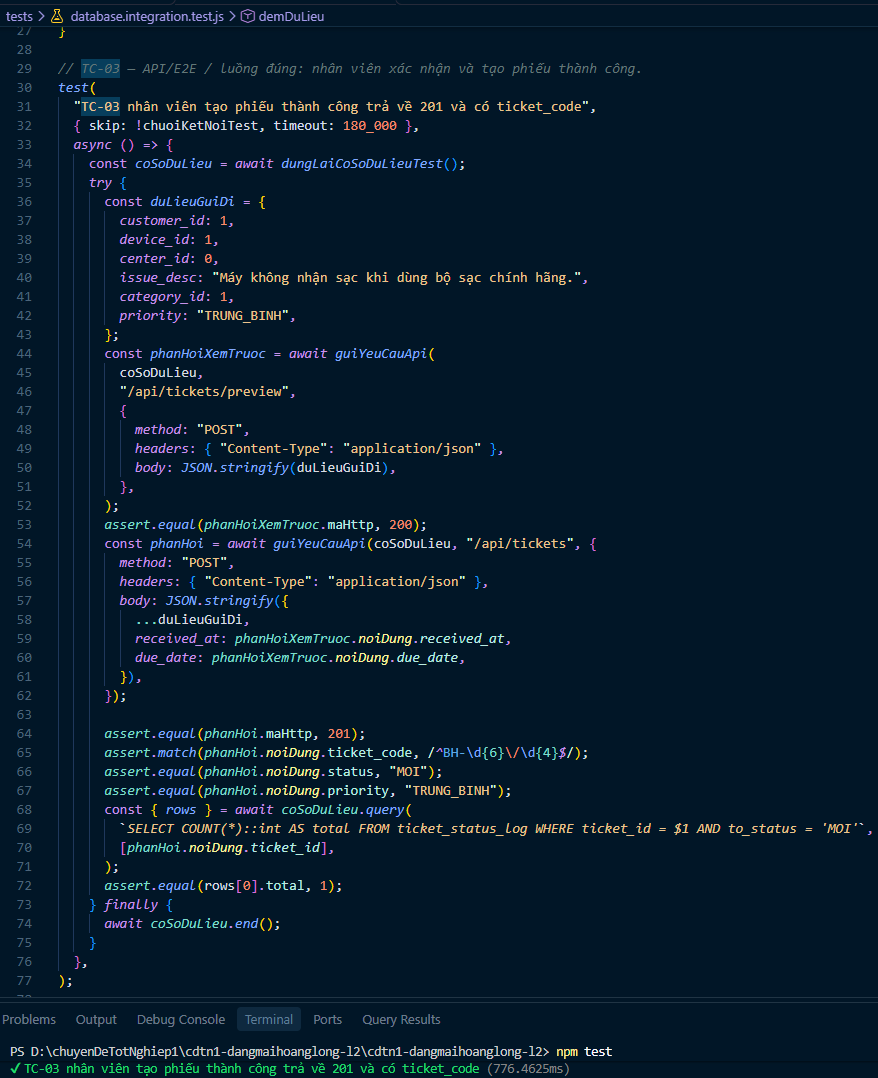
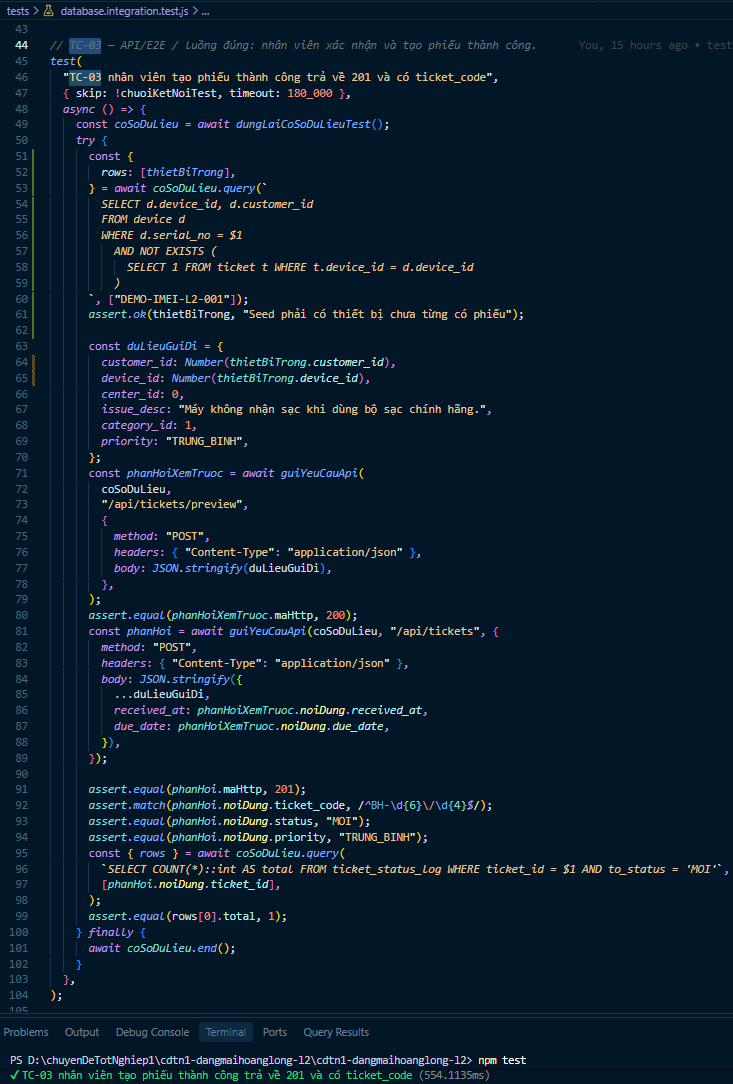
docs(): Cập nhật ảnh minh chứng fix bug test(): Điều chỉnh lại dữ liệu đầu vào TC-03 theo đúng quy tắc nghiệp vụ

Changed region(s): [[0.0, 0.0, 0.9004, 1.0], [0.9304, 0.7653, 0.9604, 0.8265]]

diff --git a/tests/database.integration.test.js b/tests/database.integration.test.js
@@ -48,9 +48,21 @@ test(
   async () => {
     const coSoDuLieu = await dungLaiCoSoDuLieuTest();
     try {
+      const {
+        rows: [thietBiTrong],
+      } = await coSoDuLieu.query(`
+        SELECT d.device_id, d.customer_id
+        FROM device d
+        WHERE d.serial_no = $1
+          AND NOT EXISTS (
+            SELECT 1 FROM ticket t WHERE t.device_id = d.device_id
+          )
+      `, ["DEMO-IMEI-L2-001"]);
+      assert.ok(thietBiTrong, "Seed phải có thiết bị chưa từng có phiếu");
+
       const duLieuGuiDi = {
-        customer_id: 1,
-        device_id: 1,
+        customer_id: Number(thietBiTrong.customer_id),
+        device_id: Number(thietBiTrong.device_id),
         center_id: 0,
         issue_desc: "Máy không nhận sạc khi dùng bộ sạc chính hãng.",
         category_id: 1,

diff --git a/docs/test-report.md b/docs/test-report.md
@@ -40,11 +40,11 @@
 
 **1. Mã test case:** TC-03 nhân viên tạo phiếu thành công trả về 201 và có ticket_code.
 
-**2. Tiền điều kiện:** PostgreSQL database `_test` dựng từ migration và seed; thiết bị `DEMO-IMEI-L2-001` chưa có phiếu chưa đóng; API test xác thực nhân viên trung tâm `0`.
+**2. Tiền điều kiện:** PostgreSQL database `_test` dựng từ migration và seed; thiết bị `DEMO-IMEI-L2-001` chưa có phiếu; API test xác thực nhân viên trung tâm `0`.
 
 **3. Các bước thực hiện:** 1. Gửi `POST /api/tickets/preview` với dữ liệu hợp lệ. 2. Dùng `received_at` và `due_date` từ response để gửi `POST /api/tickets`. 3. Đọc response HTTP. 4. Truy vấn log khởi tạo của phiếu vừa tạo.
 
-**4. Dữ liệu thử:** `customer_id = 1`; `device_id = 1`; `center_id = 0`; `category_id = 1`; `priority = TRUNG_BINH`; `issue_desc = Máy không nhận sạc khi dùng bộ sạc chính hãng.`; `received_at` là thời điểm hiện tại; `due_date` sau `received_at` 72 giờ.
+**4. Dữ liệu thử:** `serial_no = DEMO-IMEI-L2-001`; `customer_id` và `device_id` được lấy từ thiết bị trong seed; `center_id = 0`; `category_id = 1`; `priority = TRUNG_BINH`; `issue_desc = Máy không nhận sạc khi dùng bộ sạc chính hãng.`; `received_at` là thời điểm hiện tại; `due_date` từ kết quả xem trước.
 
 **5. Kết quả mong đợi:** HTTP `201`; response có `ticket_id`, `ticket_code` dạng `BH-000000/YYYY`, `status = MOI`, `priority = TRUNG_BINH`; có đúng một log chuyển khởi tạo sang `MOI` cho phiếu mới.
 
